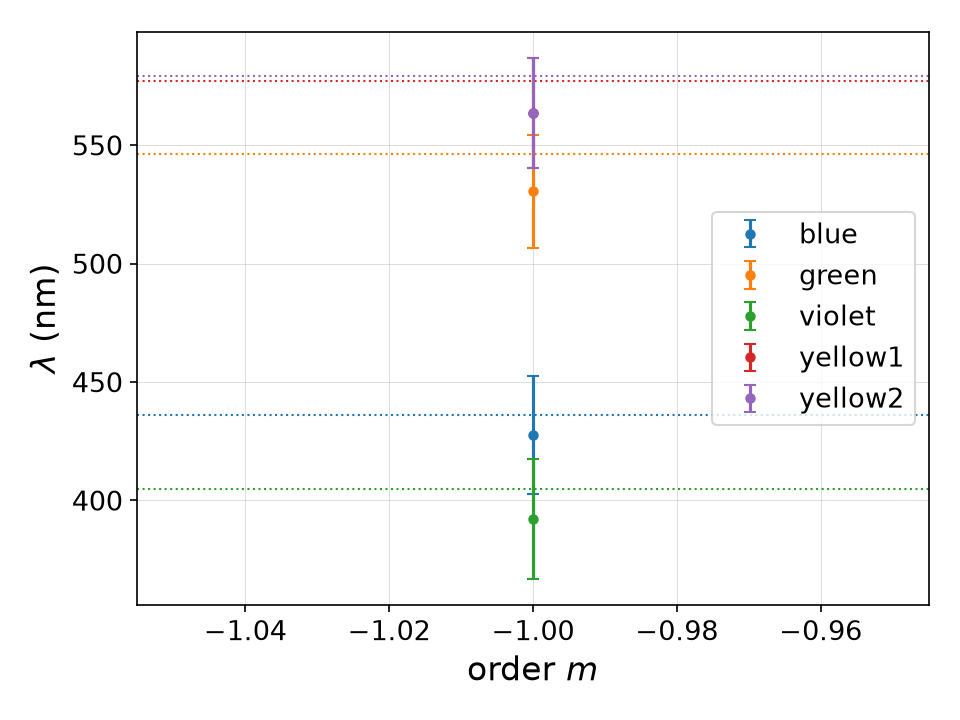
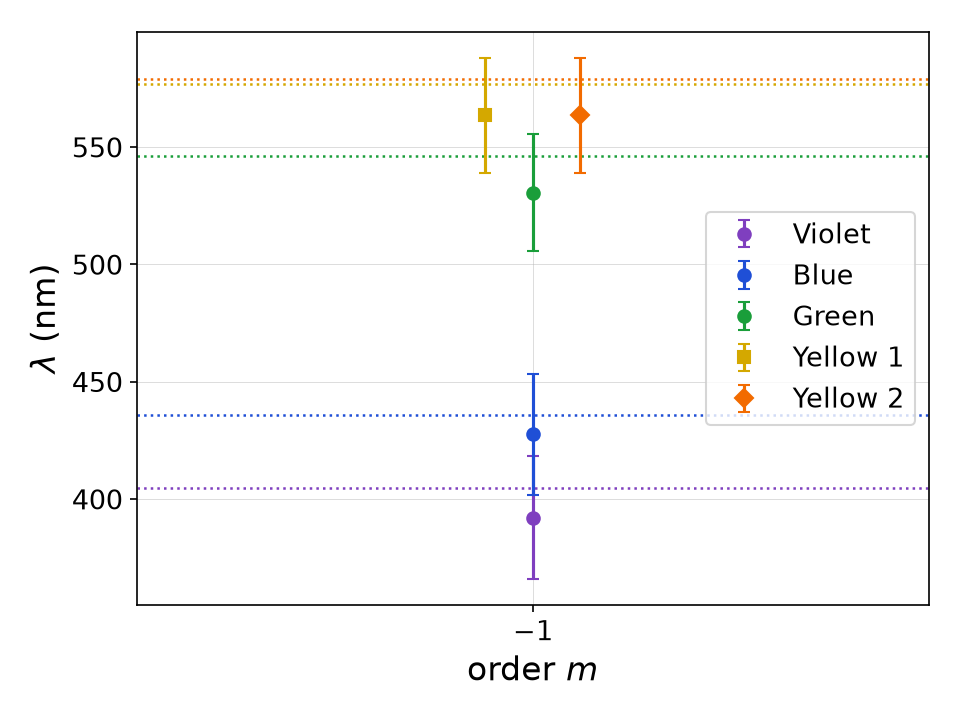
Updated plotting and cleaned up code

diff --git a/spectral_lines_experiment.py b/spectral_lines_experiment.py
@@ -35,6 +35,7 @@ angle_scale_at_0th_order_Na = 62                                            # de
 alpha_deg_Hg = abs(angle_scale_at_0th_order_Hg - angle_scale_at_i_is_0_Hg)  # deg
 alpha_deg_Na = abs(angle_scale_at_0th_order_Na - angle_scale_at_i_is_0_Na)  # deg
 alpha_uncertainty_deg = 2 * reading_uncertainty_deg                         # deg  (estimated reading uncertainty on the angle scale)
+cov_alpha_phi_deg2 = -reading_uncertainty_deg ** 2                          # deg^2 
 
 camera_pixel_size_m = 3.45 * 10**-6                                         # m / pixel
 Na_pixels_between_yellow_1_and_yellow_2 = 116                               # pixels (measured from the camera image)
@@ -56,6 +57,26 @@ HG_LITERATURE_NM = {
 NA_LITERATURE_NM = {
     'yellow1': 589.00,
     'yellow2': 589.59,
+}
+
+# Plot style per spectral line: colours match the colour seen in the
+# experiment (darkened slightly for visibility on white). The two yellow
+# lines get clearly different shades (gold vs orange), different markers
+# and a small horizontal offset, since they sit at the same order and
+# nearly the same wavelength and would otherwise overlap.
+LINE_STYLES = {
+    'violet':  {'color': '#7F3FBF', 'marker': 'o', 'offset':  0.00},
+    'blue':    {'color': '#1F4FD6', 'marker': 'o', 'offset':  0.00},
+    'green':   {'color': '#1A9E3A', 'marker': 'o', 'offset':  0.00},
+    'yellow1': {'color': '#D4A800', 'marker': 's', 'offset': -0.06},
+    'yellow2': {'color': '#F26B00', 'marker': 'D', 'offset': +0.06},
+}
+
+# Legend labels per lamp
+LINE_LABELS = {
+    'Hg': {'violet': 'Violet', 'blue': 'Blue', 'green': 'Green',
+           'yellow1': 'Yellow 1', 'yellow2': 'Yellow 2'},
+    'Na': {'yellow1': r'D$_2$ (Yellow 1)', 'yellow2': r'D$_1$ (Yellow 2)'},
 }
 
 # Lamp-dependent working constants. These are (re)populated by configure_lamp()
@@ -159,13 +180,16 @@ def group_by_colour(runs):
 
 def get_phi(reading_deg):
     """
-    phi is the angle between a given line's reading and the 0th-order
-    ('mirror') reading -- i.e. the raw angle-scale value recorded when the
-    grating was rotated so the 0th order landed on the chosen point
+    phi is the angle through which the grating was rotated away from the
+    0th-order position to bring this spectral line onto the chosen point:
 
-    This is NOT alpha_deg: alpha is a different quantity (how far the
-    grating sits from the separate i=0 calibration reading), not phi's
-    zero point on the scale.
+        phi = reading_deg - angle_scale_at_0th_order
+
+    i.e. the line's angle-scale reading minus the angle-scale reading at
+    which the 0th order sat on that same point.
+
+    This is NOT alpha_deg: alpha is the 0th-order reading minus the
+    separate i = 0 reading.
 
     reading_deg : angle scale reading for this spectral line (deg)
 
@@ -191,27 +215,31 @@ def get_wavelength(order, reading_deg):
 
 def get_wavelength_uncertainty(order, reading_deg):
     """
-    Propagate uncertainty in alpha_deg and phi (= reading_deg - alpha_deg)
-    into an uncertainty on lambda, using exact partial-derivative
-    (first-order) error propagation:
+    Propagate uncertainty in alpha and phi (= reading_deg -
+    angle_scale_at_0th_order) into an uncertainty on lambda, using
+    first-order (partial-derivative) error propagation, including the
+    covariance between alpha and phi:
 
-        u_lambda^2 = (dlambda/dalpha)^2 * u_alpha^2 + (dlambda/dphi)^2 * u_phi^2
+        u_lambda^2 = (dlambda/dalpha)^2 * u_alpha^2
+                   + (dlambda/dphi)^2   * u_phi^2
+                   + 2 * (dlambda/dalpha) * (dlambda/dphi) * cov(alpha, phi)
 
     From lambda = -2*cos(alpha)*sin(phi) / (m*N):
 
         dlambda/dalpha =  2*sin(alpha)*sin(phi) / (m*N)
         dlambda/dphi   = -2*cos(alpha)*cos(phi) / (m*N)
 
-    phi's own uncertainty combines the line reading and the zero-point
+    phi's own uncertainty combines the line reading and the 0th-order
     reading (angle_scale_at_0th_order) in quadrature, since both are
     independent raw angle-scale readings with the same instrument
     uncertainty:
 
         u_phi = sqrt(reading_uncertainty_deg^2 + reading_uncertainty_deg^2)
 
-    This treats the input uncertainties as independent (adding their
-    contributions in quadrature), unlike a simple sum, which implicitly
-    assumes worst-case correlated errors and overestimates u_lambda.
+    The 0th-order reading appears in both alpha (with a + sign) and phi
+    (with a - sign), so alpha and phi are not independent:
+
+        cov(alpha, phi) = -reading_uncertainty_deg^2
 
     order       : diffraction order m (nonzero integer)
     reading_deg : angle scale reading for this spectral line (deg)
@@ -222,15 +250,17 @@ def get_wavelength_uncertainty(order, reading_deg):
     phi_rad = math.radians(get_phi(reading_deg))
     u_alpha_rad = math.radians(alpha_uncertainty_deg)
     u_phi_rad = math.radians(math.hypot(reading_uncertainty_deg, reading_uncertainty_deg))
+    cov_alpha_phi_rad2 = cov_alpha_phi_deg2 * math.radians(1) ** 2
 
     # Partial derivatives of lambda (in m) with respect to each input
     dlambda_dalpha = 2 * math.sin(alpha_rad) * math.sin(phi_rad) / (order * N_per_m)
     dlambda_dphi = -2 * math.cos(alpha_rad) * math.cos(phi_rad) / (order * N_per_m)
 
-    # Combine contributions in quadrature (independent-error propagation)
+    # Combine contributions, including the alpha-phi covariance term
     lambda_m_uncertainty = math.sqrt(
         (dlambda_dalpha * u_alpha_rad) ** 2 +
-        (dlambda_dphi * u_phi_rad) ** 2
+        (dlambda_dphi * u_phi_rad) ** 2 +
+        2 * dlambda_dalpha * dlambda_dphi * cov_alpha_phi_rad2
     )
 
     # Convert m -> nm
@@ -242,7 +272,7 @@ def get_u(reading_deg):
     This is the angle later needed for the line-splitting calculation
     (Delta_lambda = cos(u)/(m*N) * Delta_u).
 
-    Built directly from get_phi (reading_deg - zero_point_reading_deg),
+    Built directly from get_phi (reading_deg - angle_scale_at_0th_order),
     so it automatically stays consistent with however phi is defined --
     no separate algebraic shortcut to keep in sync.
 
@@ -254,26 +284,24 @@ def get_u(reading_deg):
 
 def get_u_uncertainty():
     """
-    Propagate uncertainty in alpha_deg, reading_deg and the zero-point
-    reading into an uncertainty on u, using exact partial-derivative error
-    propagation.
+    Propagate uncertainty in alpha and phi into an uncertainty on u,
+    including their covariance. From u = alpha - phi:
 
-    From u = alpha - phi = alpha - reading + zero_point_reading_deg:
+        du/dalpha =  1
+        du/dphi   = -1
 
-        du/dalpha       =  1
-        du/dreading      = -1
-        du/dzero_point   =  1
+        u_u^2 = u_alpha^2 + u_phi^2 - 2 * cov(alpha, phi)
 
-        u_u^2 = u_alpha^2 + u_reading^2 + u_zero_point^2
-
-    zero_point_reading_deg is itself just a raw angle-scale reading, so it
-    carries the same reading_uncertainty_deg as any other row. Same
-    instrument reading uncertainty applies to every row, so this doesn't
-    depend on which line/order you're looking at.
+    with u_phi = sqrt(2) * reading_uncertainty_deg (line reading and
+    0th-order reading in quadrature) and cov(alpha, phi) =
+    -reading_uncertainty_deg^2, since the 0th-order reading appears in
+    both. The same instrument reading uncertainty applies to every row,
+    so this doesn't depend on which line/order you're looking at.
 
     Returns the uncertainty in u, in degrees.
     """
-    return math.sqrt(alpha_uncertainty_deg ** 2 + reading_uncertainty_deg ** 2 + reading_uncertainty_deg ** 2)
+    u_phi_deg = math.hypot(reading_uncertainty_deg, reading_uncertainty_deg)
+    return math.sqrt(alpha_uncertainty_deg ** 2 + u_phi_deg ** 2 - 2 * cov_alpha_phi_deg2)
 
 def weighted_average(values, uncertainties):
     """
@@ -527,8 +555,12 @@ def analyse_doublet(groups, group_lambda_bar):
 def plot_wavelength_vs_order(groups, save_path=None, show=True):
     """
     Plot the individual lambda measurements (with error bars) against
-    order m, one series per colour, with literature values overlaid as
-    dotted horizontal lines.
+    order m, one series per spectral line, with literature values overlaid
+    as dotted horizontal lines in the same colour.
+
+    Each line is drawn in the colour it had in the experiment (LINE_STYLES).
+    The two yellow lines are shifted slightly left/right of their order and
+    use different markers so they don't overlap.
 
     groups    : dict mapping colour -> list of (order, reading_deg) tuples
     save_path : if given, also save the figure here (in addition to
@@ -538,22 +570,34 @@ def plot_wavelength_vs_order(groups, save_path=None, show=True):
                 is wanted
     """
     fig, ax = plt.subplots()
+    default_style = {'color': 'grey', 'marker': 'o', 'offset': 0.0}
 
-    for colour in sorted(groups):
-        orders = [order for order, reading_deg in groups[colour]]
+    # Plot lines in order of wavelength so the legend reads violet -> yellow
+    for colour in sorted(groups, key=lambda c: LITERATURE_NM.get(c, float('inf'))):
+        style = LINE_STYLES.get(colour, default_style)
+        label = LINE_LABELS.get(lamp, {}).get(colour, colour)
+
+        orders = [order + style['offset'] for order, reading_deg in groups[colour]]
         lambdas = [get_wavelength(order, reading_deg) for order, reading_deg in groups[colour]]
         uncertainties = [get_wavelength_uncertainty(order, reading_deg)
                           for order, reading_deg in groups[colour]]
 
-        line = ax.errorbar(orders, lambdas, yerr=uncertainties, fmt='o',
-                            markersize=4, capsize=3, label=colour)
+        ax.errorbar(orders, lambdas, yerr=uncertainties,
+                    fmt=style['marker'], color=style['color'],
+                    markersize=6, capsize=3, label=label)
         if colour in LITERATURE_NM:
-            ax.axhline(LITERATURE_NM[colour], linestyle=':', linewidth=1,
-                        color=line[0].get_color())
+            ax.axhline(LITERATURE_NM[colour], linestyle=':', linewidth=1.2,
+                        color=style['color'])
 
     ax.set_xlabel('order $m$')
     ax.set_ylabel(r'$\lambda$ (nm)')
     _style_axes(ax)
+
+    # Only show the integer orders that were actually measured on the x-axis
+    measured_orders = sorted({order for pts in groups.values() for order, _ in pts})
+    ax.set_xticks(measured_orders)
+    ax.set_xlim(min(measured_orders) - 0.5, max(measured_orders) + 0.5)
+
     ax.legend()
     fig.tight_layout()
 
